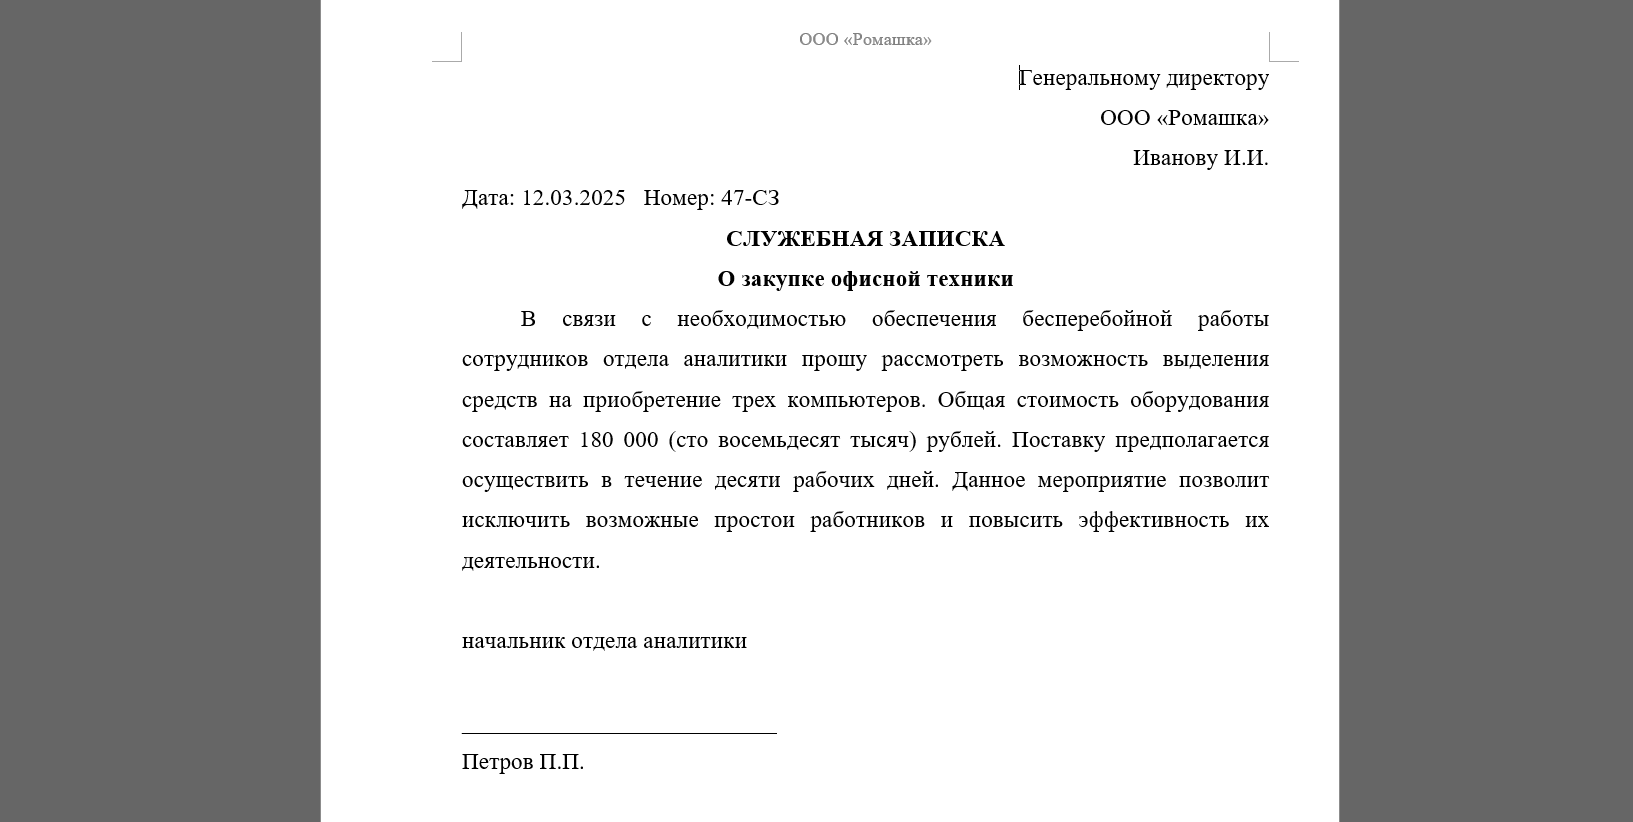
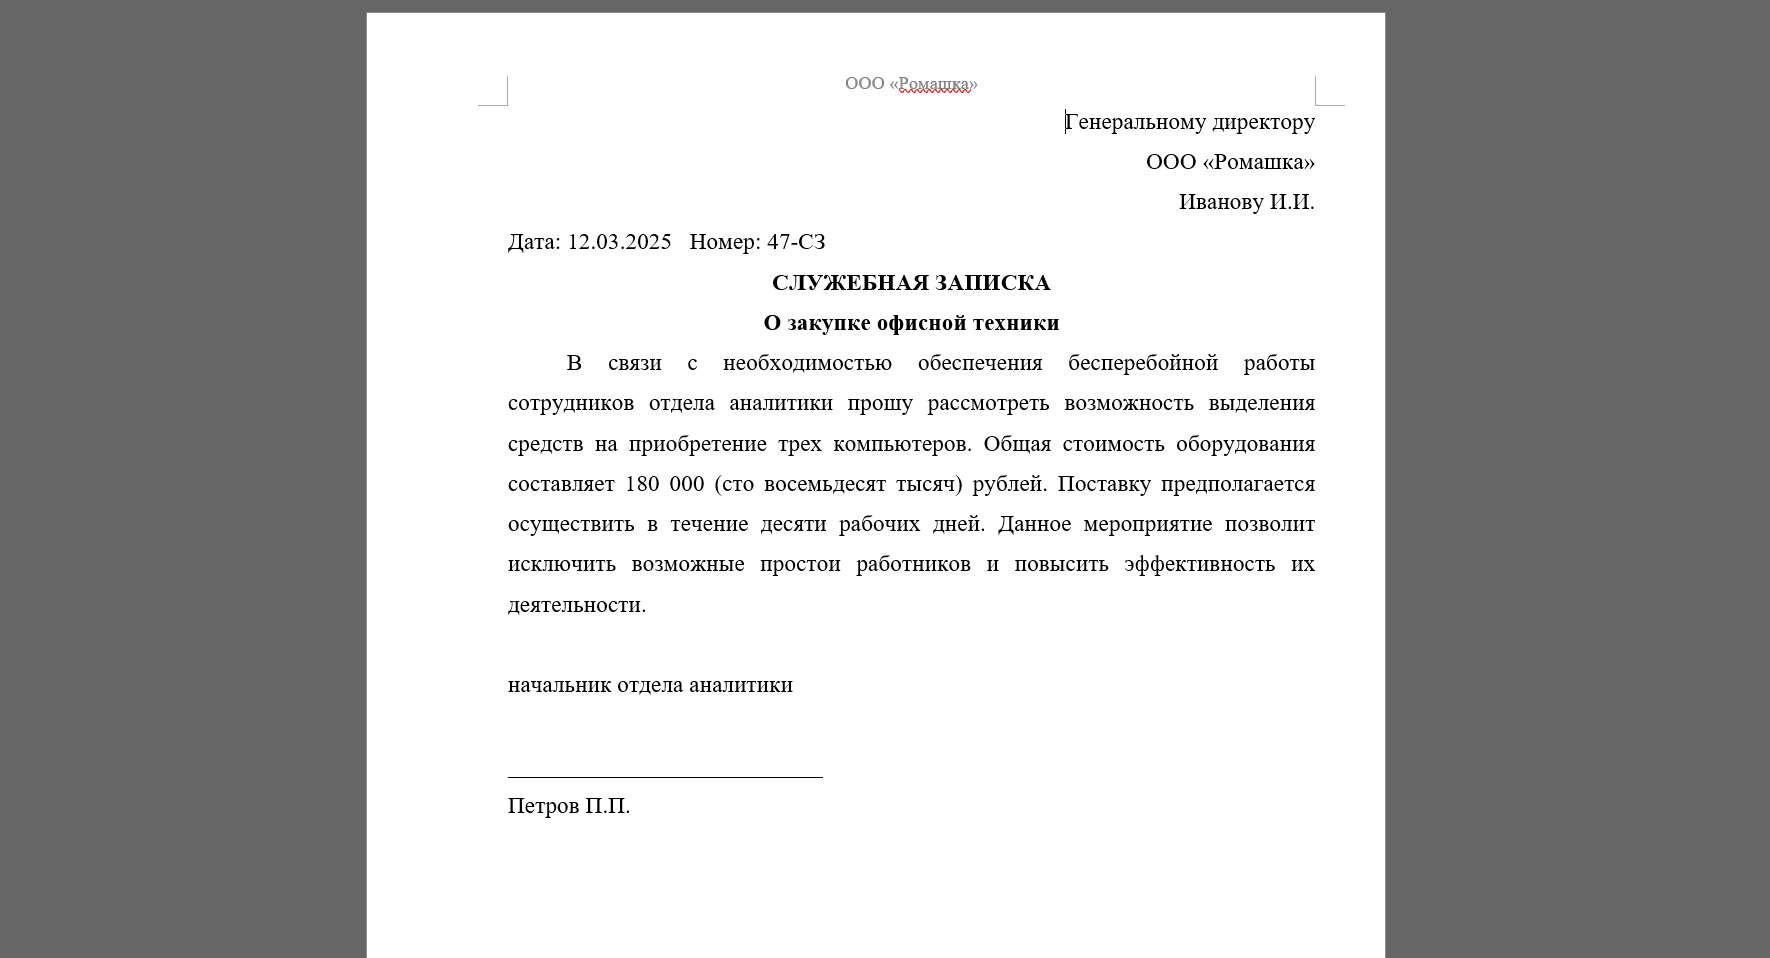
update images

diff --git a/readme.md b/readme.md
@@ -36,6 +36,16 @@
       <em>Готовый документ в Word</em>
     </td>
   </tr>
+  <tr>
+    <td align="center">
+      <img src="images/screenshot6.png" width="500" alt="Шаг 3. Предпросмотр" /><br>
+      <em>Детализация документа</em>
+    </td>
+    <td align="center">
+      <img src="images/screenshot7.png" width="500" alt="Готовый DOCX" /><br>
+      <em>Админ панель</em>
+    </td>
+  </tr>
 </table>
 
 ---
